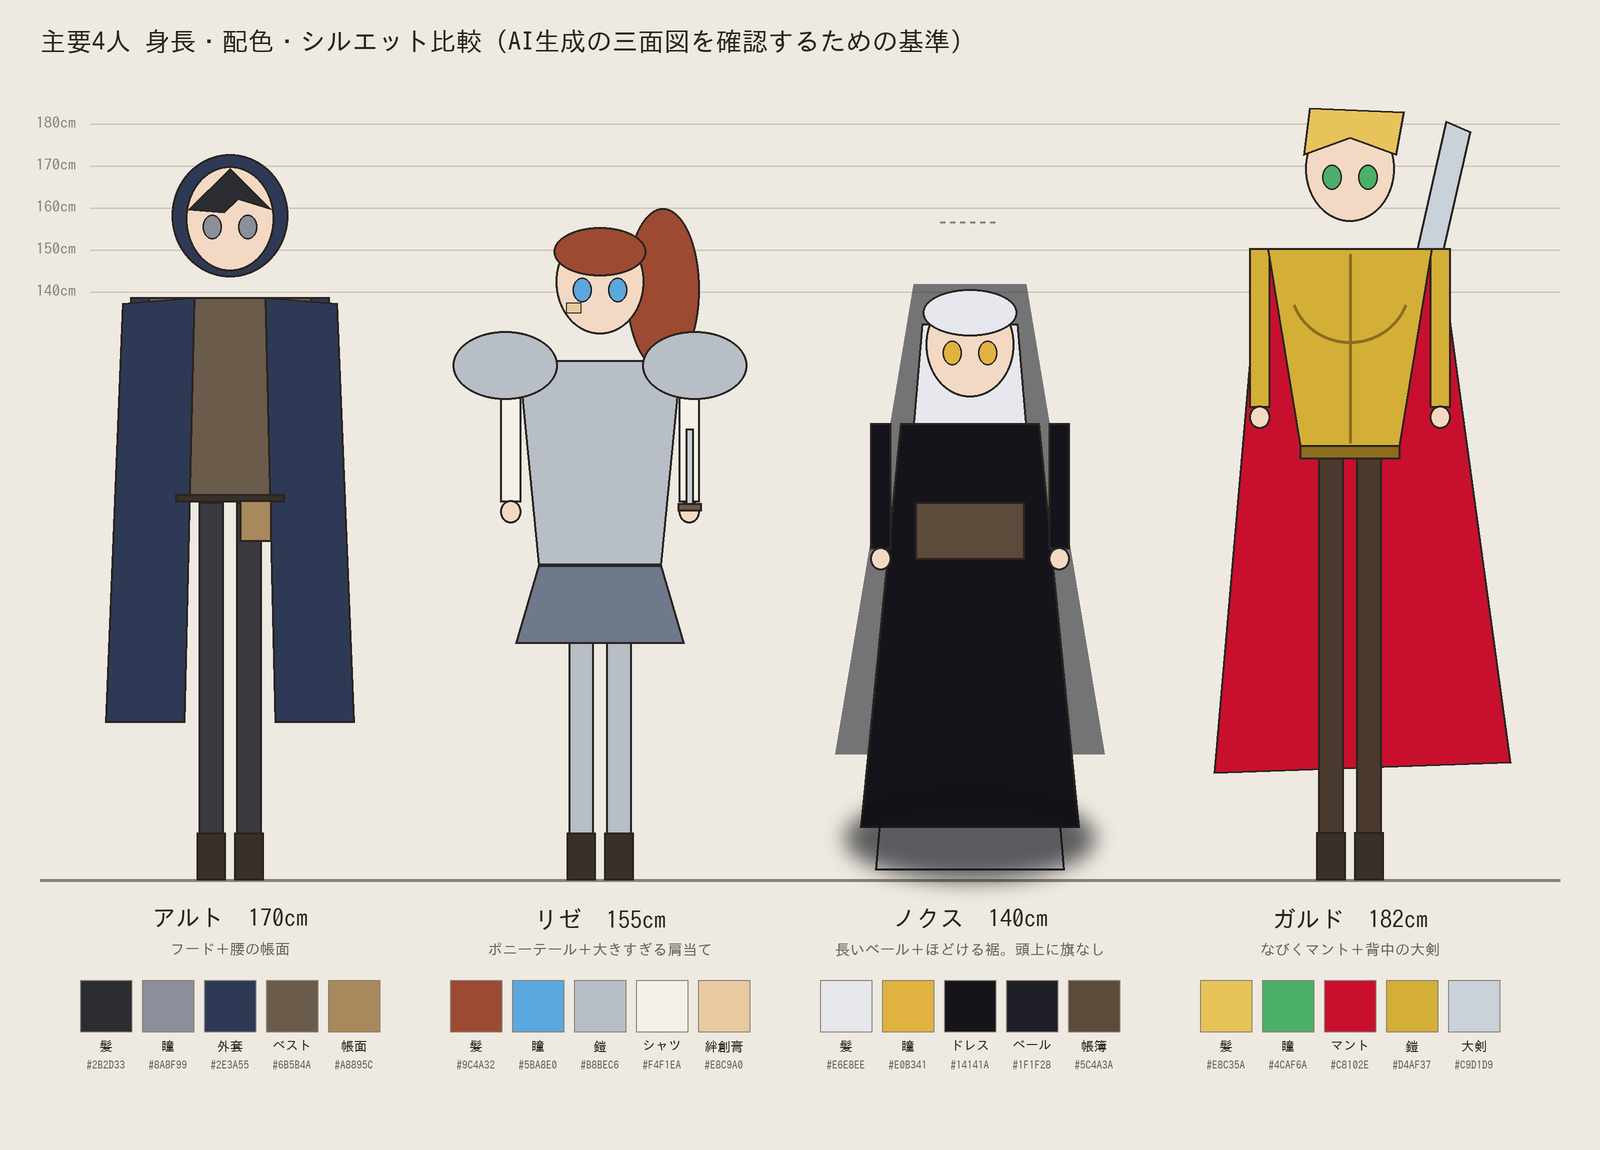
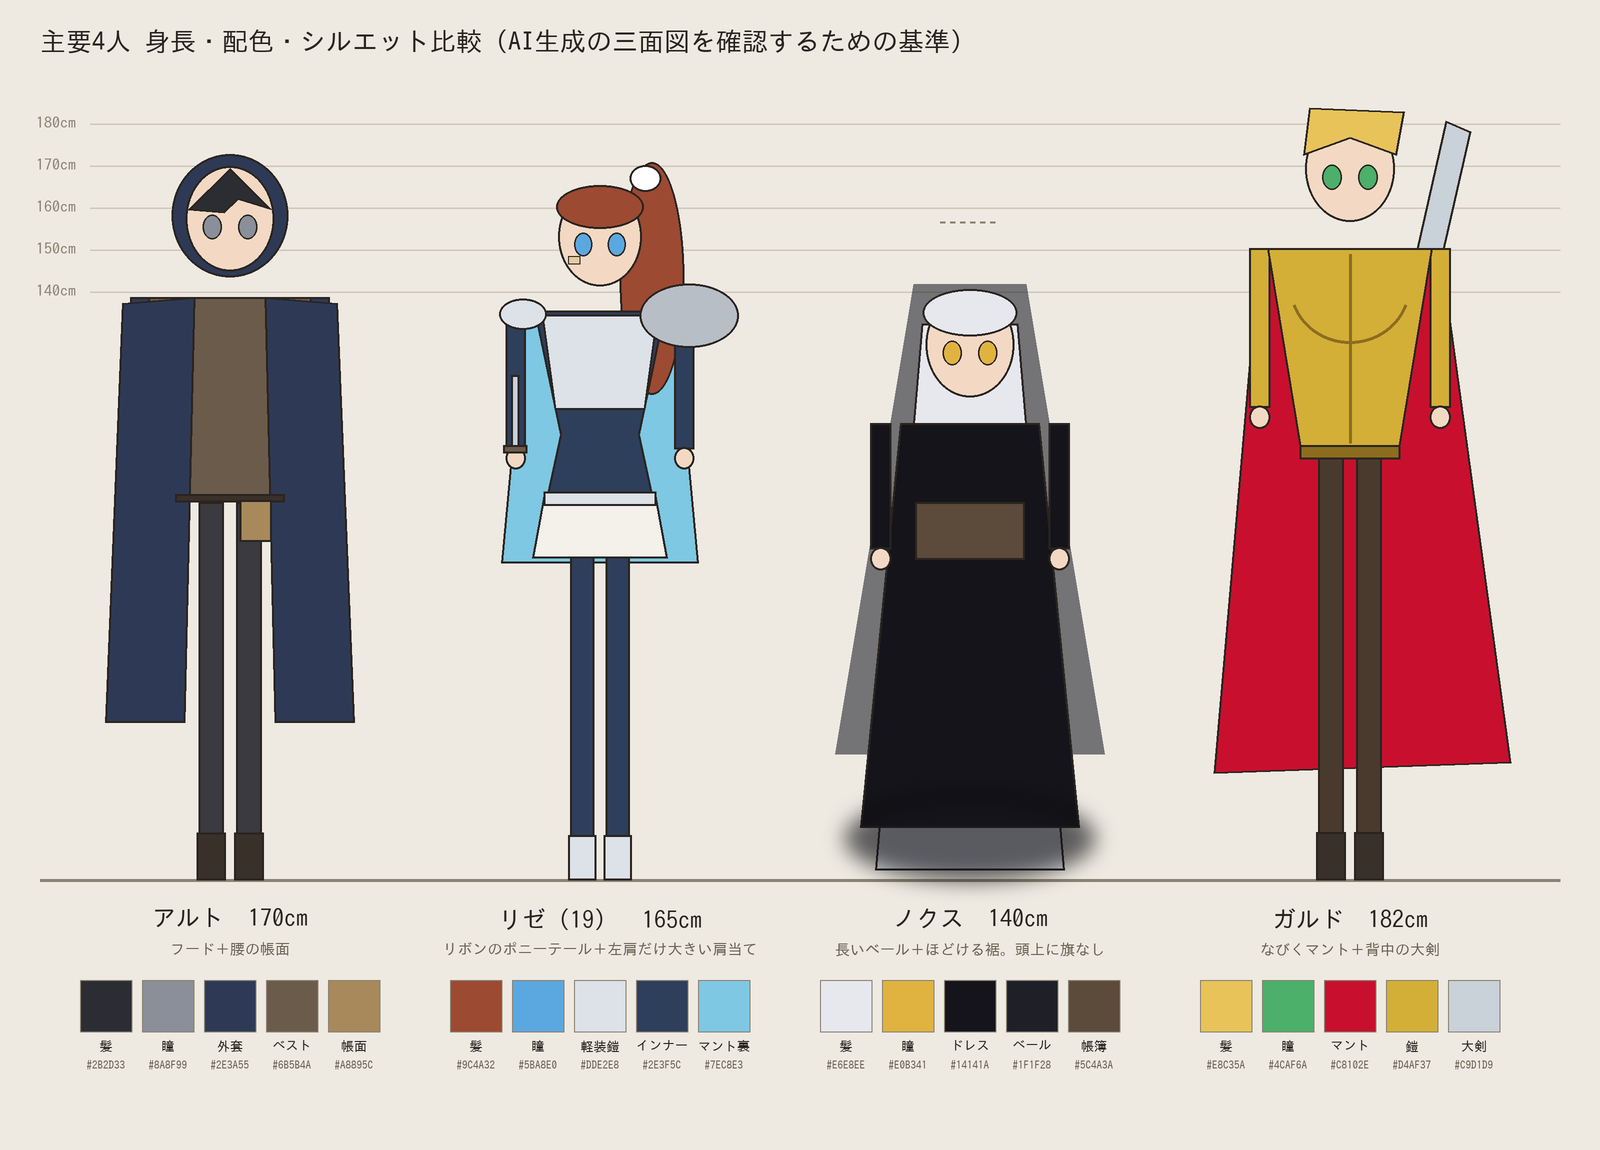
リゼを19歳の新デザインに更新（比較シート）
Claude-Session: https://claude.ai/code/session_01A5KfhSJXtrCSV9eaeNUzm5

Changed region(s): [[0.2812, 0.1522, 0.4688, 0.7609], [0.3125, 0.7913, 0.4688, 0.9435], [0.2812, 0.8217, 0.3125, 0.8522]]

diff --git a/tools/make_lineup.py b/tools/make_lineup.py
@@ -29,10 +29,10 @@ CHARS = [
         "mark": "フード＋腰の帳面",
     },
     {
-        "key": "lize", "name": "リゼ", "height": 155, "heads": 6.2, "x": 600,
-        "colors": [("髪", "#9C4A32"), ("瞳", "#5BA8E0"), ("鎧", "#B8BEC6"),
-                   ("シャツ", "#F4F1EA"), ("絆創膏", "#E8C9A0")],
-        "mark": "ポニーテール＋大きすぎる肩当て",
+        "key": "lize", "name": "リゼ（19）", "height": 165, "heads": 7.0, "x": 600,
+        "colors": [("髪", "#9C4A32"), ("瞳", "#5BA8E0"), ("軽装鎧", "#DDE2E8"),
+                   ("インナー", "#2E3F5C"), ("マント裏", "#7EC8E3")],
+        "mark": "リボンのポニーテール＋左肩だけ大きい肩当て",
     },
     {
         "key": "nox", "name": "ノクス", "height": 140, "heads": 5.6, "x": 970,
@@ -148,27 +148,41 @@ def draw_alto(d, b, c):
 
 def draw_lize(d, b, c):
     hb = b.head_box()
-    # ポニーテール（頭の後ろ上から背中へ）
-    ellipse(d, [b.cx + b.hh * 0.25, b.top - b.hh * 0.2, b.cx + b.hh * 0.95, b.top + b.hh * 1.35], c["髪"])
-    legs(d, b, c["鎧"])
-    arms(d, b, c["シャツ"], 1.35)
-    # スカート
-    poly(d, [(b.cx - b.sw * 0.62, b.waist), (b.cx + b.sw * 0.62, b.waist),
-             (b.cx + b.sw * 0.85, b.waist + b.hh * 0.75), (b.cx - b.sw * 0.85, b.waist + b.hh * 0.75)], "#6E7A8A")
-    torso(d, b, c["鎧"])
-    # 大きすぎる肩当て
+    # 短いマント（背面、裏地が空色）
+    poly(d, [(b.cx - b.sw * 0.8, b.shoulder_y), (b.cx + b.sw * 0.8, b.shoulder_y),
+             (b.cx + b.sw * 1.05, b.waist + b.hh * 0.6), (b.cx - b.sw * 1.05, b.waist + b.hh * 0.6)], c["マント裏"])
+    # 長いハイポニーテール
+    ellipse(d, [b.cx + b.hh * 0.2, b.top - b.hh * 0.25, b.cx + b.hh * 0.85, b.top + b.hh * 2.1], c["髪"])
+    # 体に沿うインナー（脚・腕・胴）
+    legs(d, b, c["インナー"], boots=c["軽装鎧"])
+    arms(d, b, c["インナー"], 1.4)
+    poly(d, [(b.cx - b.sw * 0.7, b.shoulder_y), (b.cx + b.sw * 0.7, b.shoulder_y),
+             (b.cx + b.sw * 0.42, b.chin + b.hh * 1.5), (b.cx + b.sw * 0.58, b.waist),
+             (b.cx - b.sw * 0.58, b.waist), (b.cx - b.sw * 0.42, b.chin + b.hh * 1.5)], c["インナー"])
+    # 胸当て
+    poly(d, [(b.cx - b.sw * 0.62, b.shoulder_y + 4), (b.cx + b.sw * 0.62, b.shoulder_y + 4),
+             (b.cx + b.sw * 0.48, b.chin + b.hh * 1.25), (b.cx - b.sw * 0.48, b.chin + b.hh * 1.25)], c["軽装鎧"])
+    # 腰当てと白い腰布
+    poly(d, [(b.cx - b.sw * 0.6, b.waist - 8), (b.cx + b.sw * 0.6, b.waist - 8),
+             (b.cx + b.sw * 0.72, b.waist + b.hh * 0.55), (b.cx - b.sw * 0.72, b.waist + b.hh * 0.55)], "#F4F1EA")
+    rect(d, [b.cx - b.sw * 0.6, b.waist - 12, b.cx + b.sw * 0.6, b.waist + 2], c["軽装鎧"])
+    # 左肩だけ大きすぎる借り物の肩当て（画面右側がキャラの左肩）
     r = b.hh * 0.5
-    for side in (-1, 1):
-        sx = b.cx + side * b.sw * 0.95
-        ellipse(d, [sx - r, b.shoulder_y - r * 0.55, sx + r, b.shoulder_y + r * 0.75], c["鎧"])
+    sx = b.cx + b.sw * 0.95
+    ellipse(d, [sx - r, b.shoulder_y - r * 0.55, sx + r, b.shoulder_y + r * 0.75], "#B8BEC6")
+    r2 = b.hh * 0.24
+    sx2 = b.cx - b.sw * 0.82
+    ellipse(d, [sx2 - r2, b.shoulder_y - r2 * 0.5, sx2 + r2, b.shoulder_y + r2 * 0.8], c["軽装鎧"])
     # 折れた剣（右手）
-    hx = b.cx + b.sw * 0.9
+    hx = b.cx - b.sw * 0.9
     hy = b.shoulder_y + b.hh * 1.4
     rect(d, [hx - 4, hy - b.hh * 0.75, hx + 4, hy], "#C9D1D9")
     rect(d, [hx - 12, hy - 4, hx + 12, hy + 4], "#6B5B4A")
     face(d, b, c["瞳"])
-    ellipse(d, [hb[0] - 2, b.top - 2, hb[2] + 2, b.top + b.hh * 0.45], c["髪"])
-    rect(d, [b.cx - b.hh * 0.32, b.top + b.hh * 0.7, b.cx - b.hh * 0.18, b.top + b.hh * 0.8], c["絆創膏"], width=1)
+    ellipse(d, [hb[0] - 2, b.top - 2, hb[2] + 2, b.top + b.hh * 0.42], c["髪"])
+    # 白いリボン
+    ellipse(d, [b.cx + b.hh * 0.3, b.top - b.hh * 0.22, b.cx + b.hh * 0.62, b.top + b.hh * 0.05], "#FFFFFF")
+    rect(d, [b.cx - b.hh * 0.32, b.top + b.hh * 0.7, b.cx - b.hh * 0.2, b.top + b.hh * 0.78], "#E8C9A0", width=1)
 
 
 def draw_nox(d, b, c, img):
